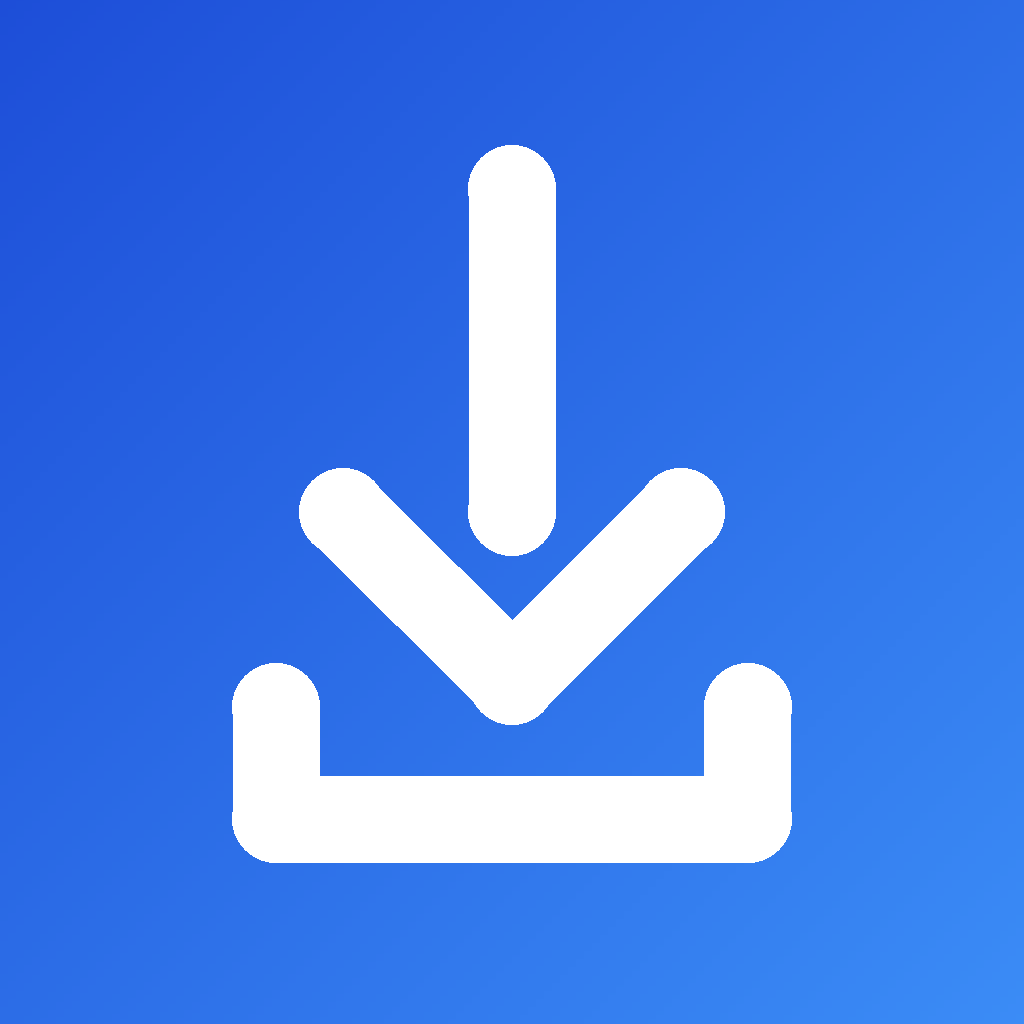
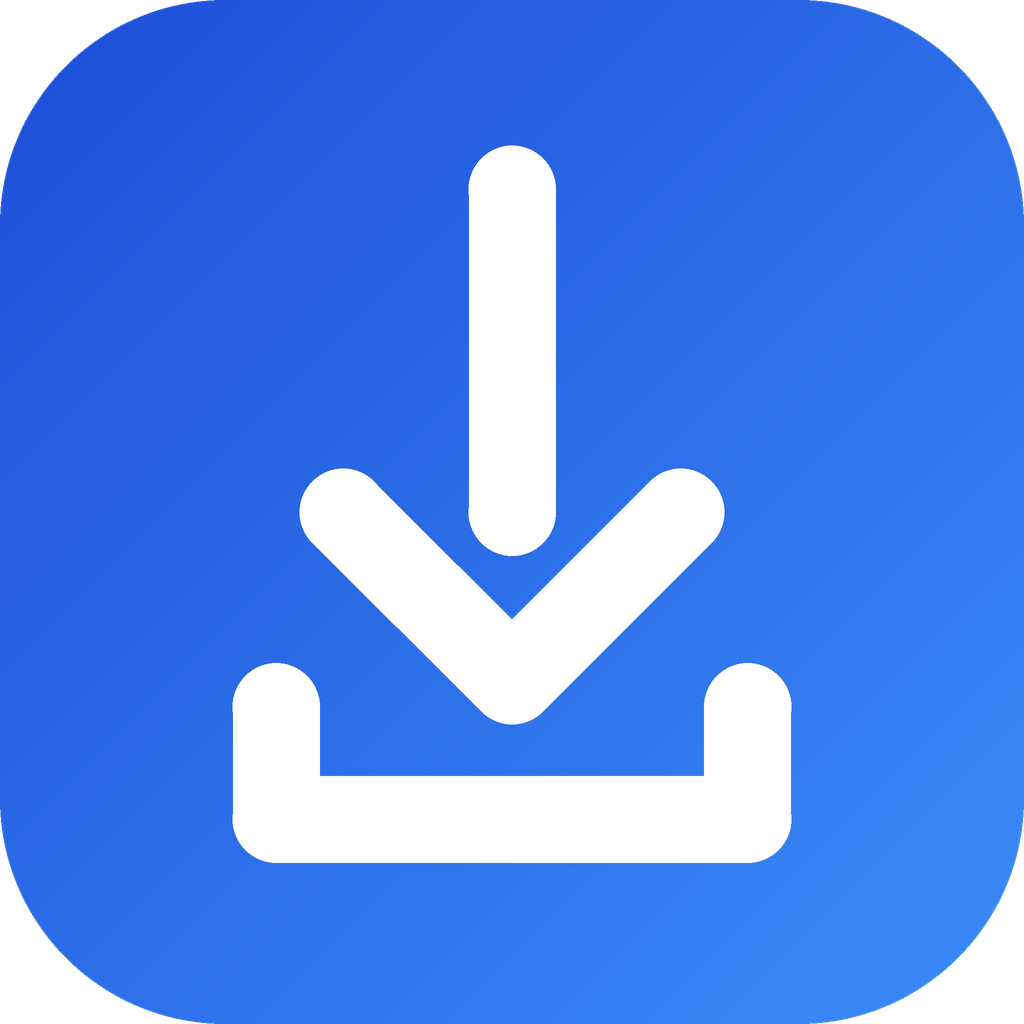
清理无用文件(run.bat/vibe_images)，图标改为透明背景圆角样式

diff --git a/README.md b/README.md
@@ -6,7 +6,7 @@
 
 ```bash
 pip install -r requirements.txt
-python -m downloader        # 或双击 run.bat
+python -m downloader
 ```
 
 ## 配置文件保存位置（可自定义）

diff --git a/使用说明.md b/使用说明.md
@@ -14,7 +14,7 @@
 
 ```bash
 pip install -r requirements.txt
-python -m downloader          # 或双击 run.bat
+python -m downloader
 ```
 
 ---
